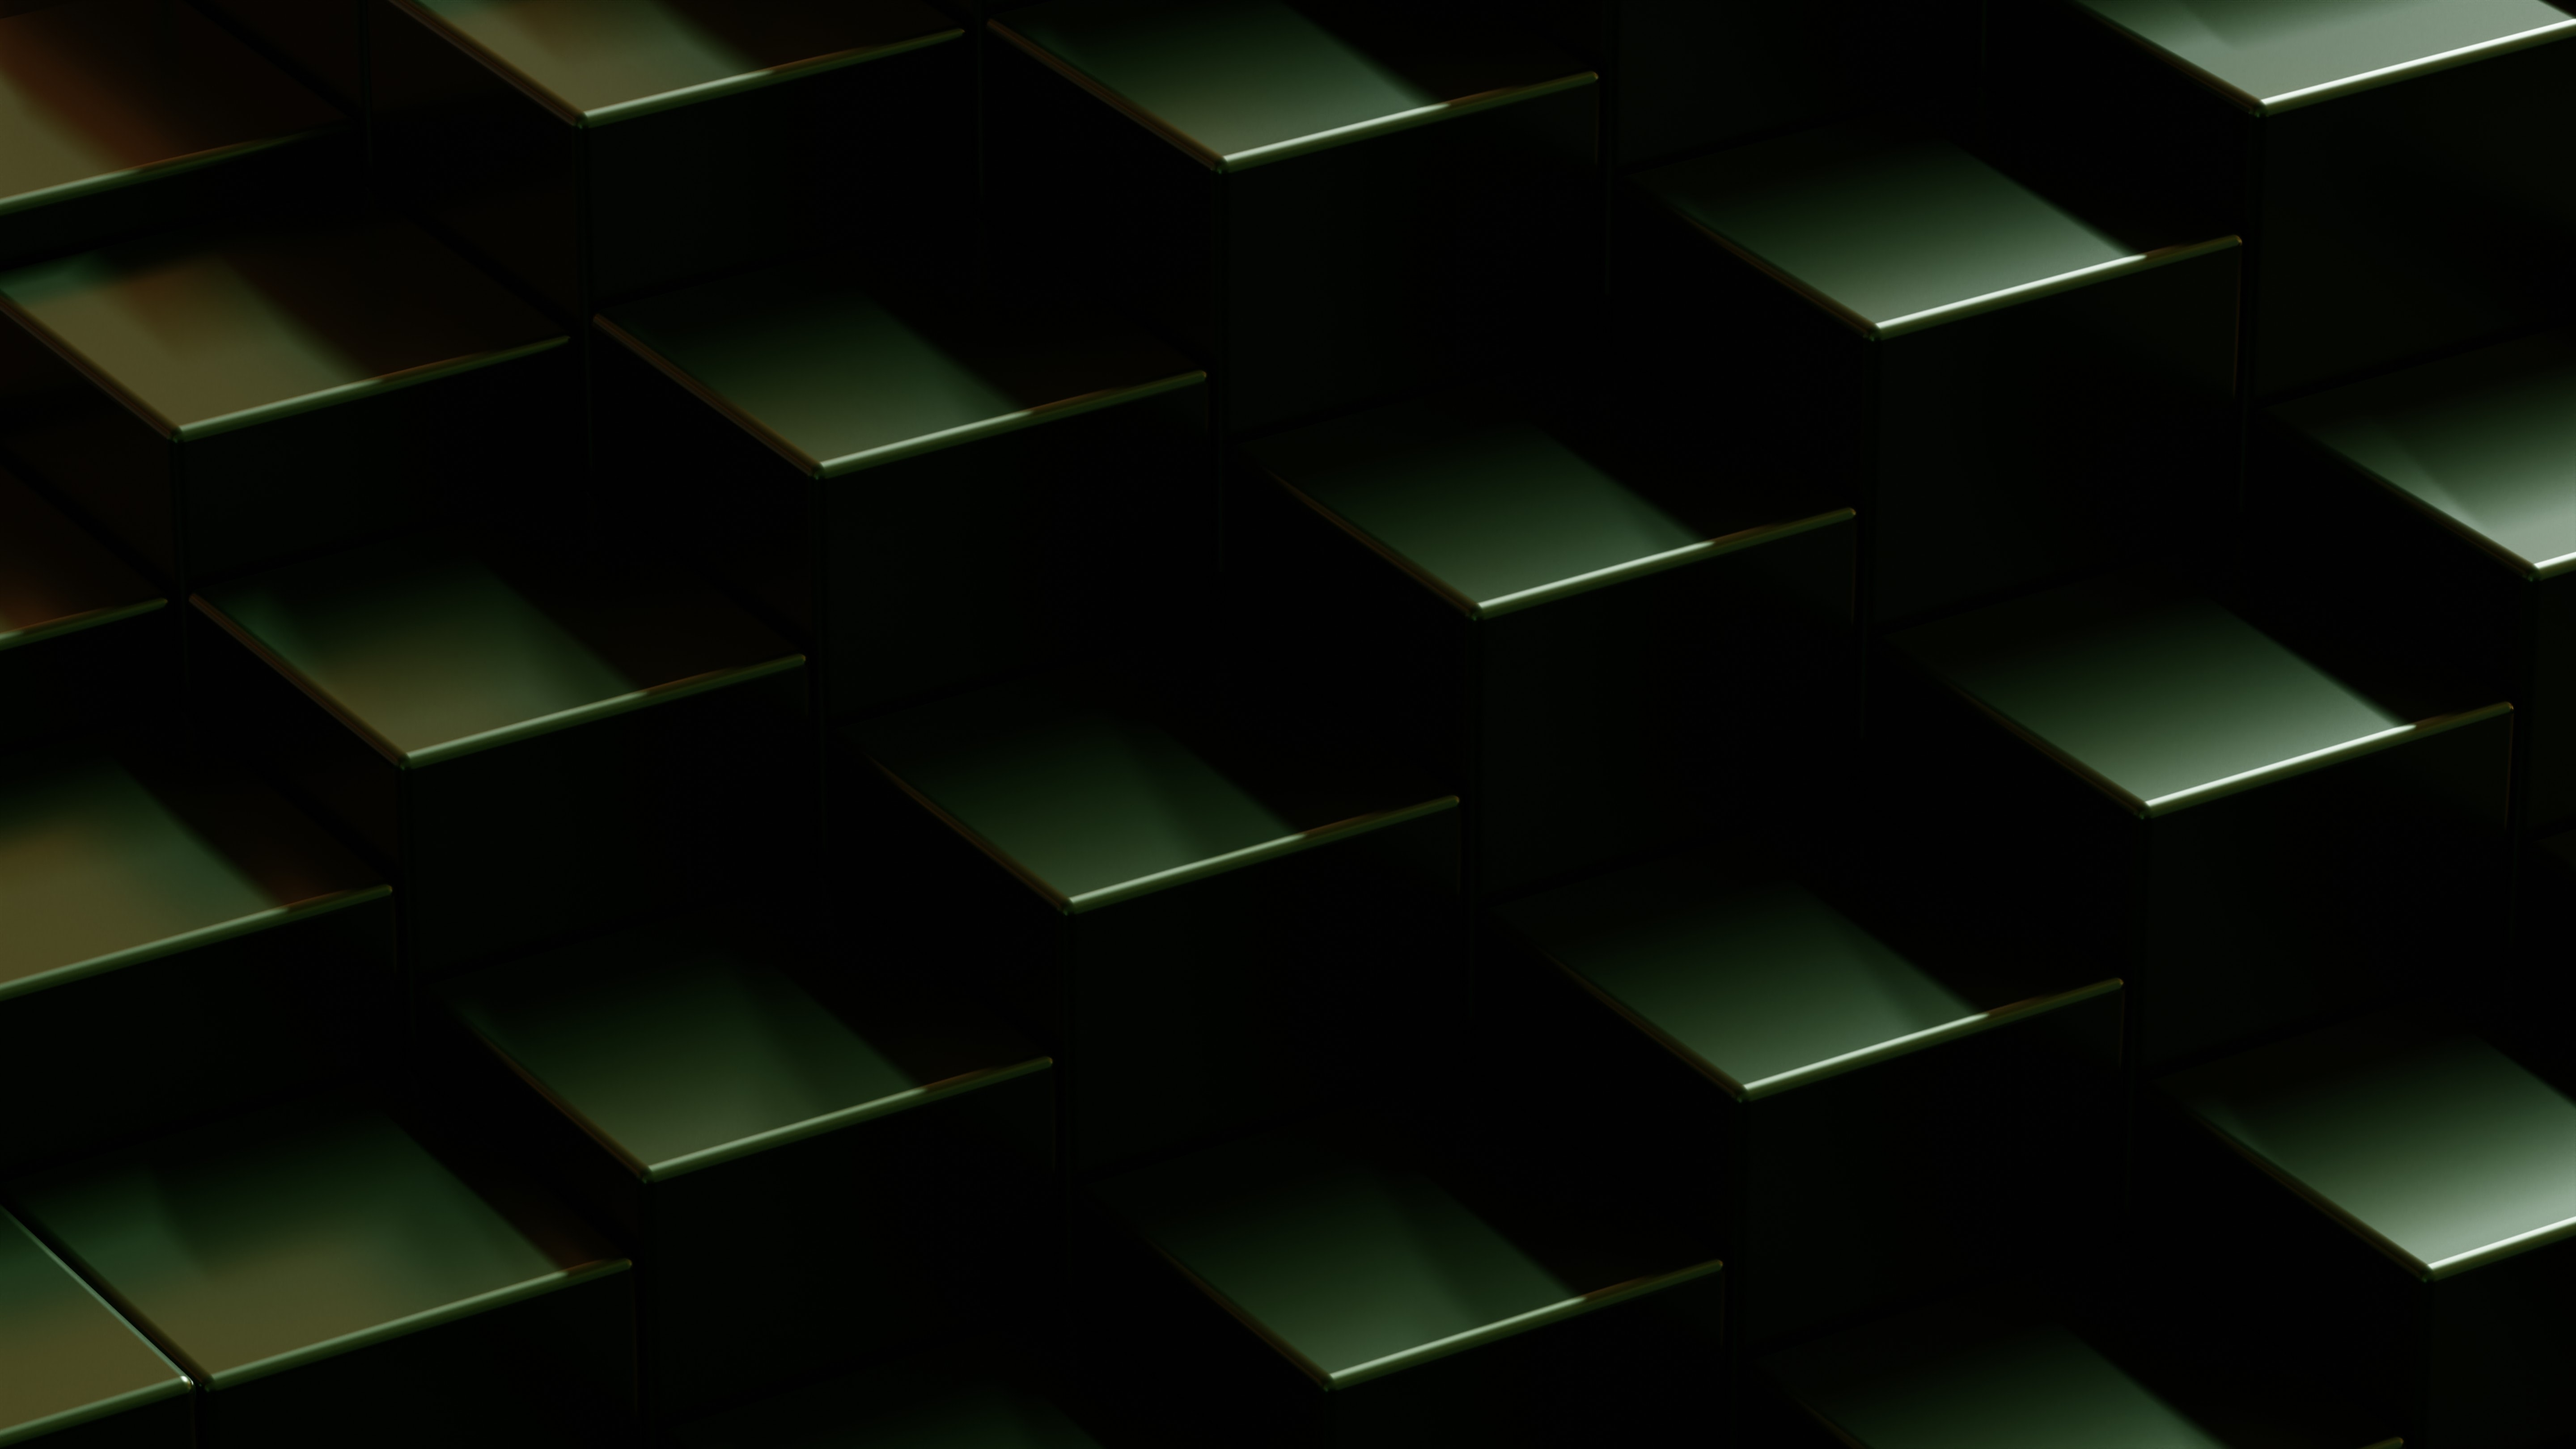
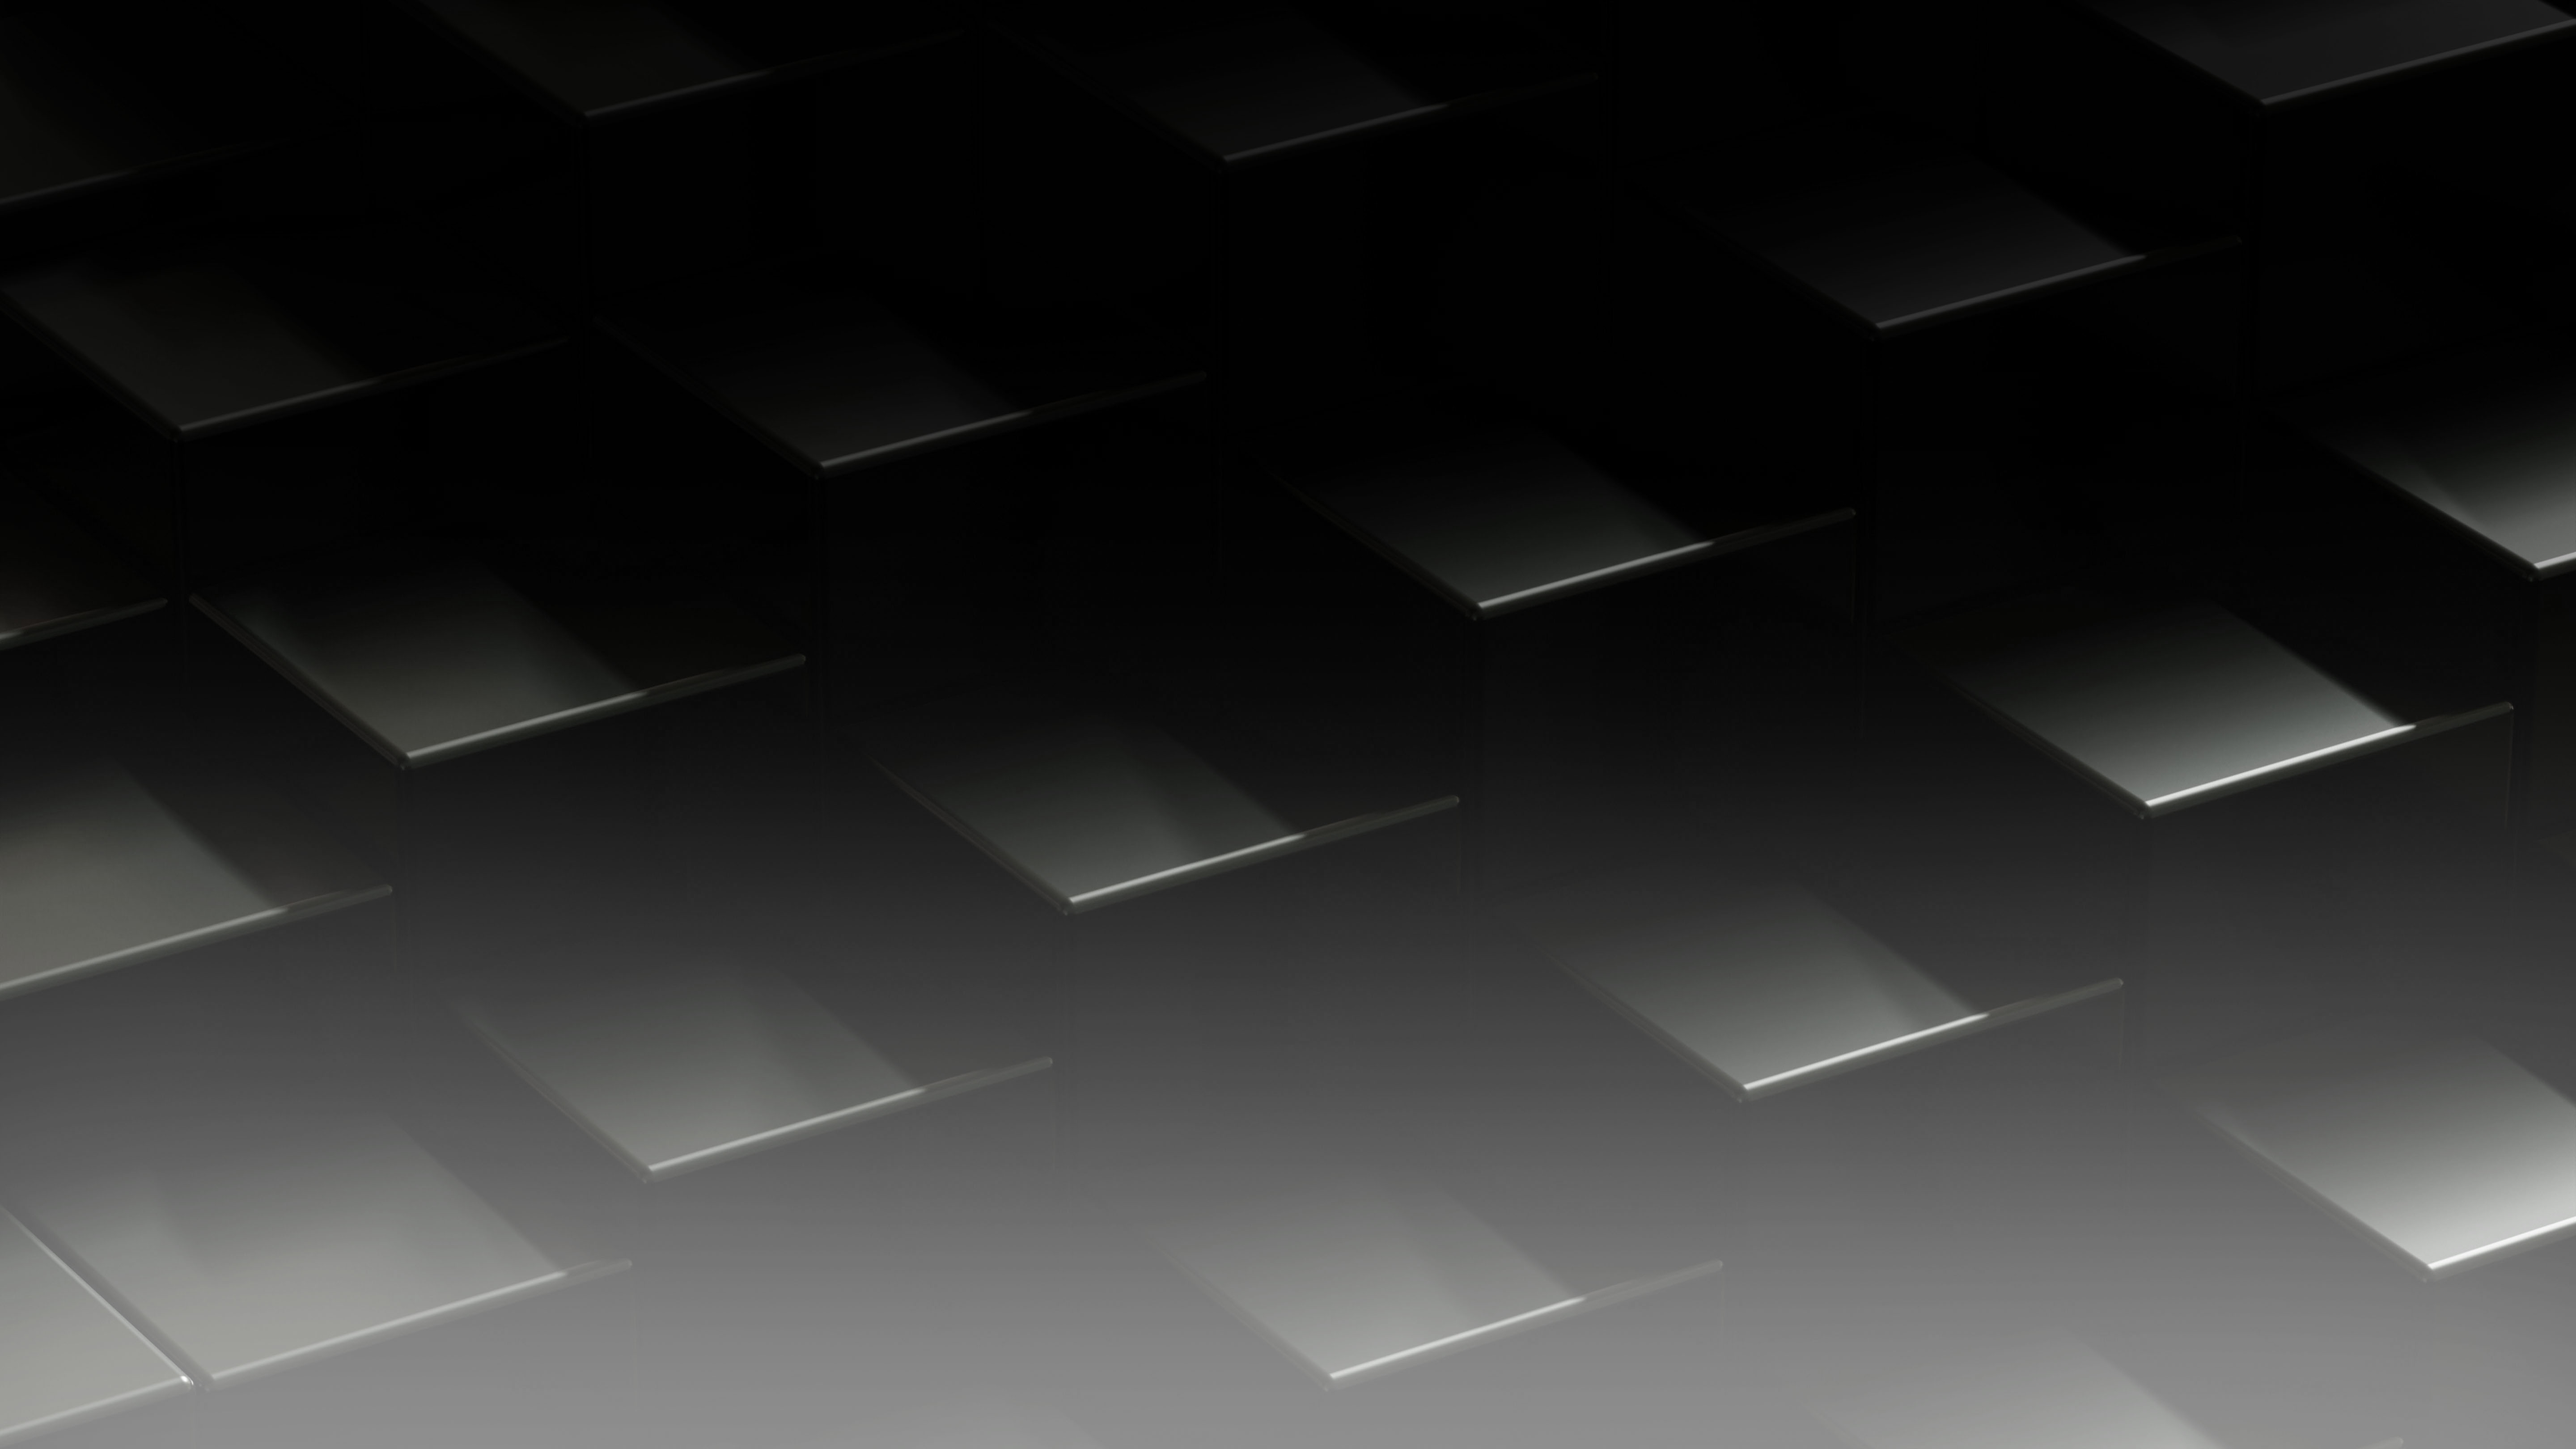
updated design home page

diff --git a/styles/style.css b/styles/style.css
@@ -1,9 +1,9 @@
 :root {
   --secondary-color: rgba(0, 0, 0);
-  --primary-color: rgb(225, 242, 201);
-  --hover-color: #80af73;
+  --primary-color: rgb(230, 231, 229);
+  --hover-color: #858585;
   --extra-color: rgb(224, 161, 110);
-  --background-color: rgba(94, 94, 94, 0.1);
+  --background-color: rgba(255, 255, 255, 0.6);
   --default-font: "Raleway", sans-serif;
   --heading-font: "Roboto Slab", serif;
 }
@@ -14,7 +14,7 @@ body {
 
 .background {
   padding-bottom: 20px;
-  background-color: rgb(15, 14, 14);
+  background-color: rgb(214, 214, 214);
 }
 
 .container-fluid {
@@ -29,16 +29,15 @@ h1 {
 
 .hero-subpage h1 {
   font-family: var(--heading-font);
-  font-size: 38px;
-  font-weight: 600;
+  font-size: 48px;
+  font-weight: 400;
 }
 
 h2 {
   color: var(--hover-color);
-  font-family: var(--heading-font);
-  font-size: 32px;
+  font-family: var(--default-font);
+  font-size: 20px;
   font-weight: 200;
-  font-style: italic;
   line-height: 1.5;
 }
 
@@ -59,18 +58,18 @@ h3 {
 }
 
 h4 {
-  color: var(--primary-color);
+  color: var(--secondary-color);
   font-size: 64px;
   font-weight: bolder;
   margin: 20px 0;
+  padding: 40px;
 }
 
 h5 {
   font-family: var(--default-font);
-  font-weight: 700;
+  font-weight: 500;
   font-size: 40px;
-  font-style: italic;
-  margin-bottom: 40px;
+  margin-bottom: 50px;
 }
 
 .featured-header {
@@ -78,13 +77,14 @@ h5 {
 }
 
 p {
-  color: var(--primary-color);
+  color: var(--secondary-color);
   font-size: 18px;
   line-height: 1.5;
   text-align: justify;
 }
 
 .hero-subpage p {
+  color: var(--primary-color);
   font-size: 18px;
   line-height: 1.7;
   padding-top: 30px;
@@ -95,7 +95,7 @@ img {
 }
 
 .navigation-bar {
-  background: rgba(0, 0, 0, 0.1);
+  background: rgba(0, 0, 0, 0.4);
   padding: 15px 30px;
   position: fixed;
   top: 0;
@@ -121,15 +121,19 @@ nav li a {
 }
 
 .active {
-  font-weight: 600;
+  font-weight: 700;
 }
 
-.active,
 nav li a:hover {
   color: var(--hover-color);
 }
 
 .hero {
+  text-align: center;
+}
+
+.hero,
+.hero-subpage {
   padding: 170px 160px 140px 160px;
   background-image: url("../images/background.jpg");
   min-height: 500px;
@@ -138,15 +142,10 @@ nav li a:hover {
   background-position: center;
   background-repeat: no-repeat;
   background-size: cover;
-  text-align: center;
 }
 
 .hero-subpage {
   padding: 100px 160px 90px 160px;
-}
-
-.hero-subpage {
-  background: var(--secondary-color);
   color: var(--primary-color);
 }
 
@@ -193,16 +192,14 @@ nav li a:hover {
 }
 
 .about-content {
-  margin-top: 100px;
+  margin-top: 70px;
   padding-bottom: 0;
 }
 
-.about-content .description {
-  margin: 30px 120px;
-}
-
-.about-content p {
-  font-size: 18px;
+.about-content h6 {
+  font-size: 20px;
+  text-align: center;
+  margin-bottom: 70px;
 }
 
 .tools-tech {
@@ -222,7 +219,7 @@ nav li a:hover {
 }
 
 .button-branding {
-  background: rgba(50, 89, 41, 0.7);
+  background: rgba(48, 48, 48, 0.7);
   border-radius: 0;
   color: #fff;
   font-family: var(--default-font);
@@ -262,7 +259,7 @@ footer .contact-box {
 }
 
 footer .contact-box h5 {
-  color: var(--primary-color);
+  color: var(--secondary-color);
   font-family: var(--heading-font);
   font-size: 28px;
   font-weight: bolder;
@@ -275,7 +272,7 @@ footer .contact-box p {
 
 footer .email-link,
 footer .social-links {
-  color: var(--primary-color);
+  color: var(--secondary-color);
   font-size: 28px;
   text-decoration: none;
 }
@@ -338,6 +335,11 @@ footer .footer-information-github {
     line-height: 1.7;
     text-align: center;
     margin-bottom: 20px;
+    padding: 15px;
+  }
+
+  h5 {
+    font-size: 23px;
   }
 
   p {
@@ -364,17 +366,20 @@ footer .footer-information-github {
   }
 
   .active {
-    color: #513962;
+    color: #717171;
+    font-weight: bolder;
   }
 
   .hero {
     background-attachment: scroll;
+    padding-bottom: 0;
+    min-height: 400px;
   }
 
   .hero,
   .hero-subpage {
     text-align: center;
-    padding: 70px 15px 30px;
+    padding: 90px 15px 0 15px;
   }
 
   .hero-subpage .button-branding {
@@ -454,7 +459,7 @@ footer .footer-information-github {
   }
 
   .projects-preview {
-    margin: 10px;
+    margin: 0;
   }
 
   .certificate-picture {

diff --git a/index.html b/index.html
@@ -70,7 +70,7 @@
         >
       </div>
       <div class="container-fluid">
-        <h4 class="d-none d-lg-block text-center p-5">Featured</h4>
+        <h4 class="d-lg-block text-center">Featured</h4>
         <div class="projects-preview">
           <div
             class="homepage-content align-items-center justify-content-center shadow"
